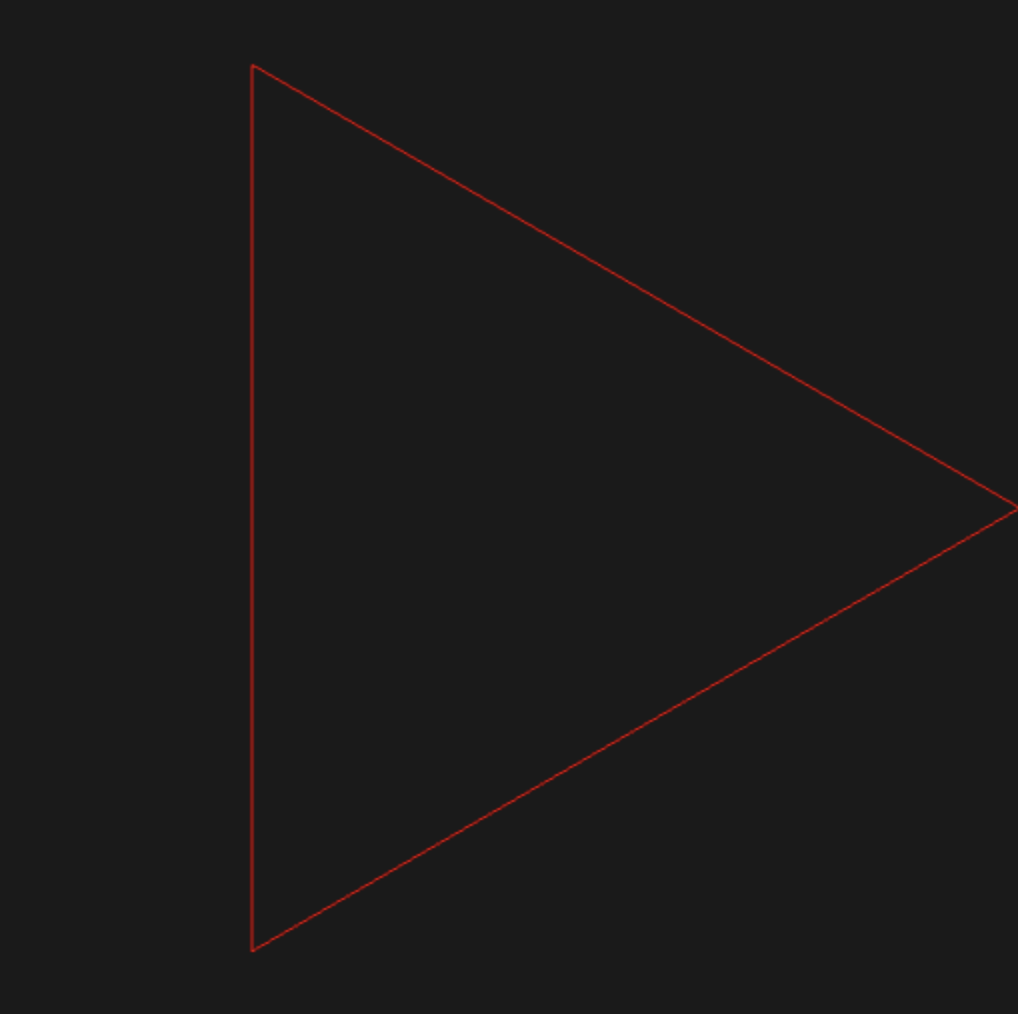
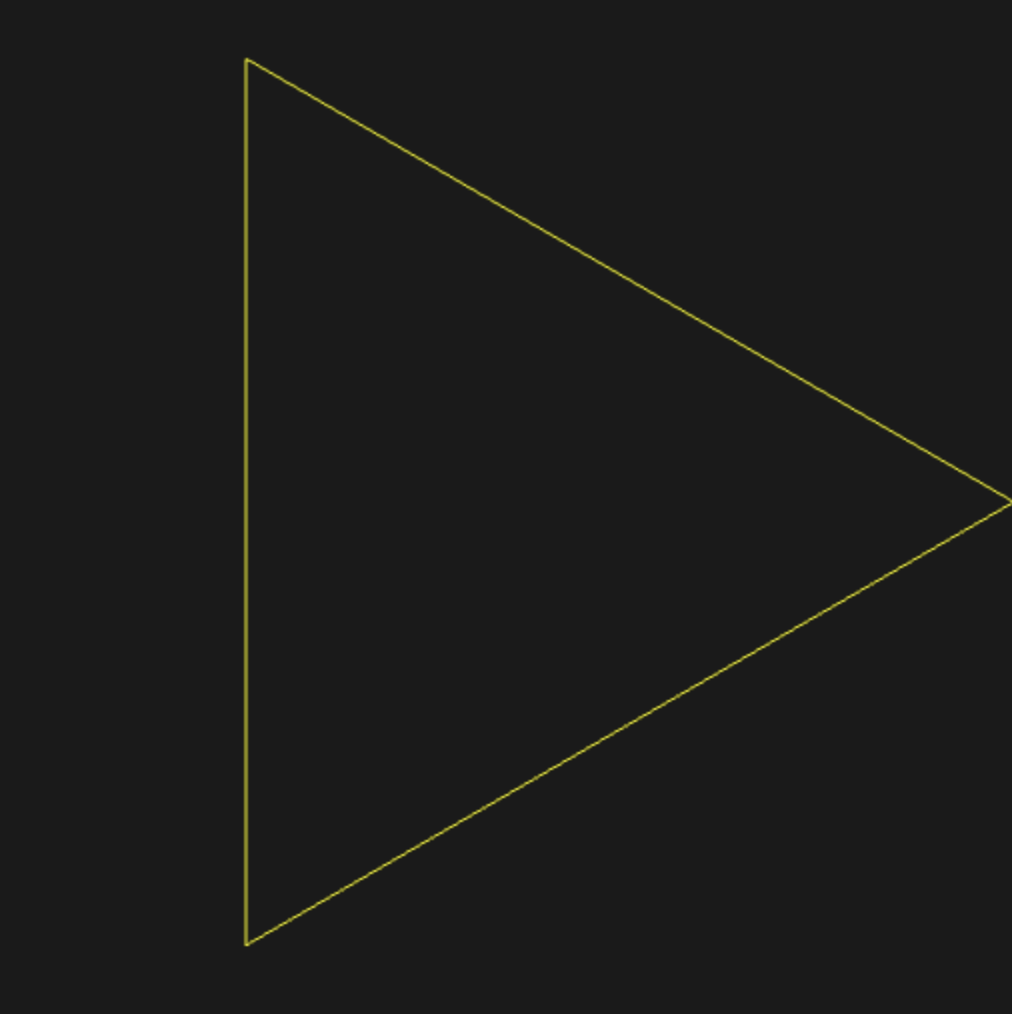
update image files for project 3

diff --git a/Project-3/pacman.html b/Project-3/pacman.html
@@ -30,7 +30,7 @@
             out vec4 fColor;
             void main() {
                 // Your fragment shader code will go here
-                fColor = vec4(1.0, 0.0, 0.0, 1.0);
+                fColor = vec4(1.0, 2.0, 0.0, 1.0);
             }
         </script>
 

diff --git a/Project-3/polygon.html b/Project-3/polygon.html
@@ -23,7 +23,7 @@
             out vec4 fColor;
             void main() {
                 // Your fragment shader code will go here
-                fColor = vec4(1.0, 0.0, 0.0, 1.0);
+                fColor = vec4(1.0, 2.0, 0.0, 1.0);
             }
         </script>
 

diff --git a/Project-3/spinny.html b/Project-3/spinny.html
@@ -28,7 +28,7 @@
             out vec4 fColor;
             void main() {
                 // Your fragment shader code will go here
-                fColor = vec4(1.0, 0.0, 0.0, 1.0);
+                fColor = vec4(1.0, 2.0, 0.0, 1.0);
             }
         </script>
 

diff --git a/Project-3/triangle.html b/Project-3/triangle.html
@@ -21,7 +21,7 @@
             out vec4 fColor;
             void main() {
                 // Your fragment shader code will go here
-                fColor = vec4(1.0, 0.0, 0.0, 1.0);
+                fColor = vec4(1.0, 2.0, 0.0, 1.0);
             }
         </script>
 
